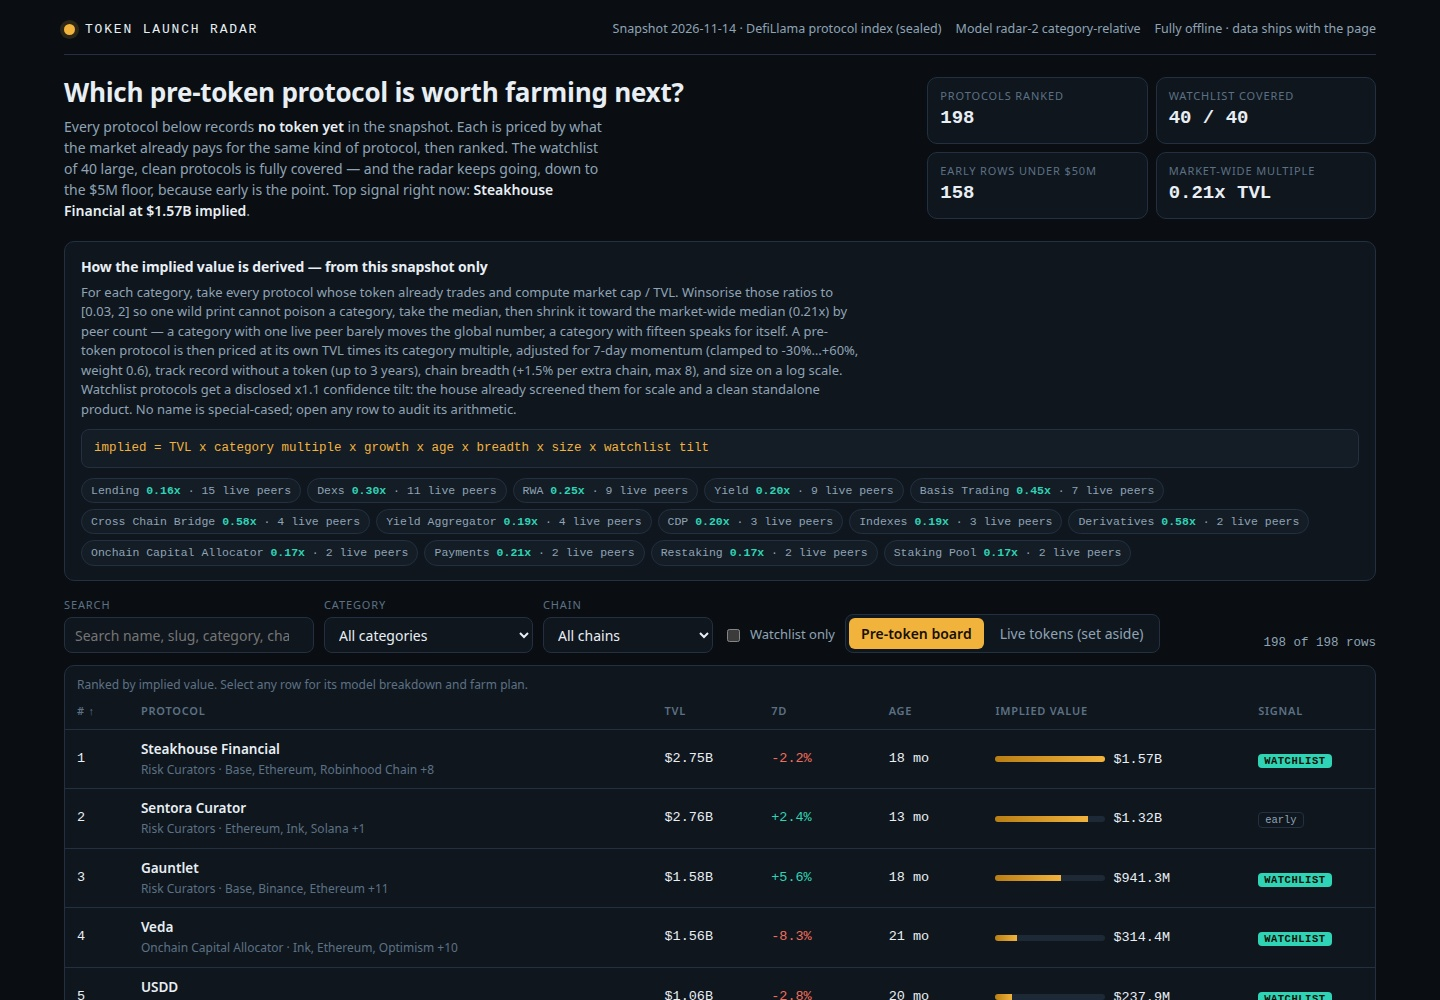
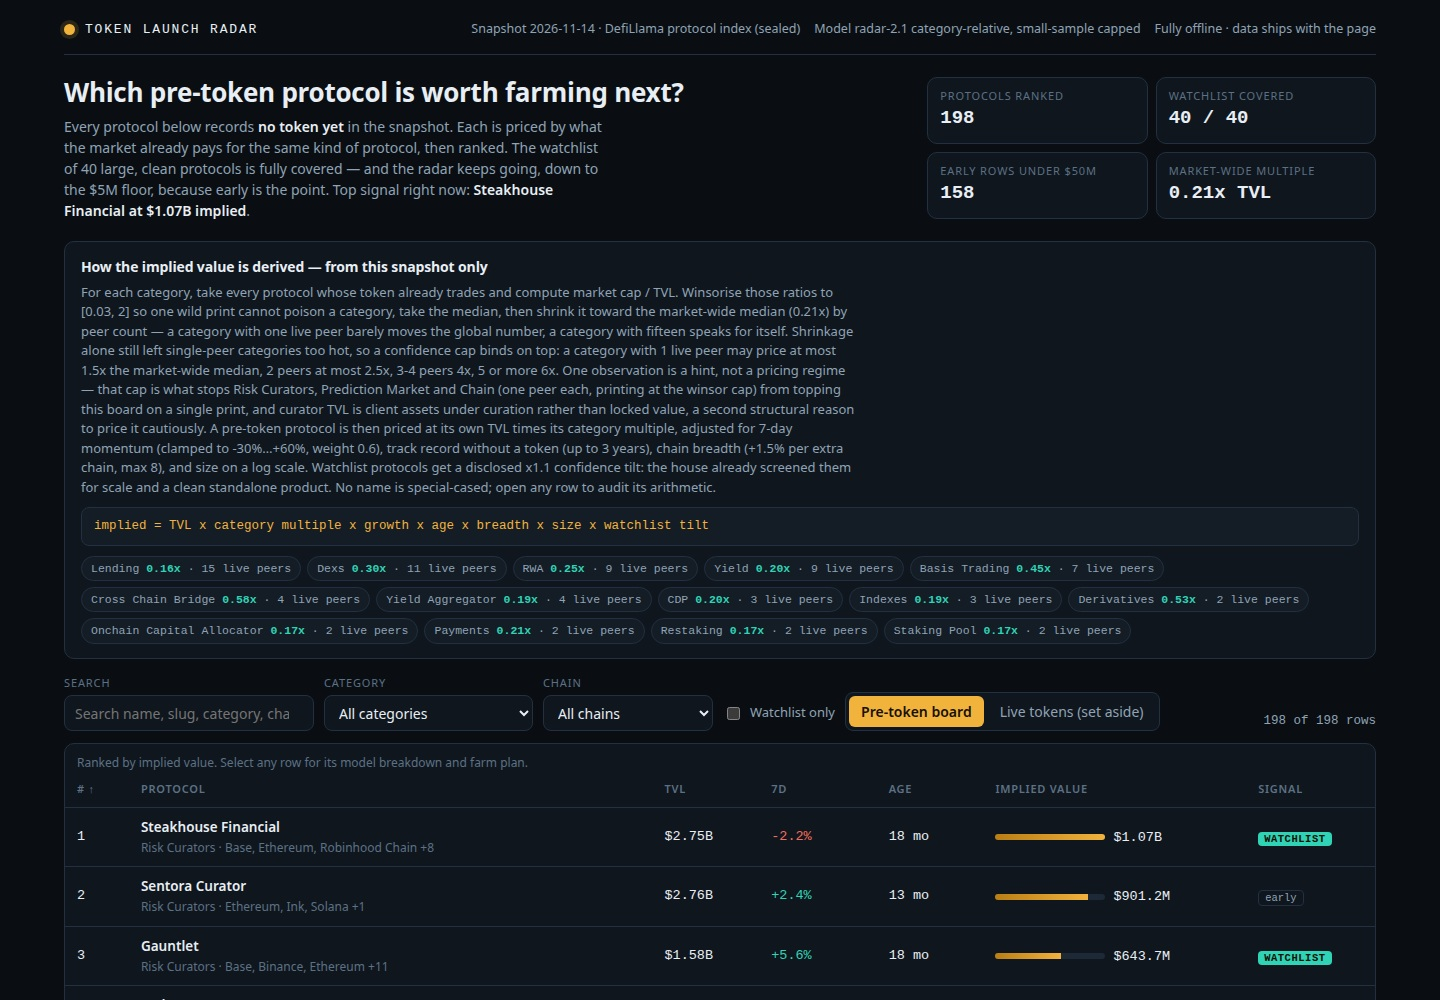
Small-sample confidence caps: category multiples capped by peer count (1 peer 1.5x global, 2 peers 2.5x, 3-4 peers 4x, 5+ 6x); curators, prediction market, chain and derivatives trimmed; dashboard and screenshots updated

diff --git a/lib/model.ts b/lib/model.ts
@@ -22,9 +22,29 @@
 // contains extreme prints (a prediction market at 400x TVL, a token locker at 19x) that would
 // otherwise poison a whole category. A category median is then shrunk toward the global median
 // with weight n / (n + SHRINK_K), SHRINK_K = 6: a category with fifteen live peers mostly speaks
-// for itself, while a category with a single peer (Risk Curators, whose one live peer prints near
-// the 2.0 cap) is pulled most of the way back to the market-wide 0.22x — one observation is a
-// hint, not a pricing regime. Categories with no live peer at all fall back to the global median.
+// for itself, while a category with a single peer is pulled most of the way back to the
+// market-wide 0.21x. Categories with no live peer at all fall back to the global median.
+//
+// Shrinkage alone was not enough for thin categories (found in review of the first board):
+// Risk Curators has exactly one live peer, printing at the 2.0 winsor cap, and even after
+// shrinkage its multiple stayed at 0.47x — more than double the market-wide figure on the
+// strength of a single observation — which put three curators on top of the board. So a second,
+// harder guard applies after shrinkage: a confidence cap tied to the peer count, expressed as a
+// multiple of the global median G. A category with 1 peer may not exceed 1.5 x G, with 2 peers
+// 2.5 x G, with 3-4 peers 4 x G, and with 5 or more peers 6 x G (at which point the winsor cap
+// is the binding limit anyway). The logic is sampling logic, not taste: the standard error of a
+// median falls with n, so the burden of proof a category must meet to price far above the whole
+// market rises with its evidence. The same rule, applied blind to every category, also trims
+// Derivatives (2 peers, raw median 1.69x) and the other single-peer categories whose only peer
+// prints at the cap (Chain, Prediction Market); thin categories whose peers print low
+// (Restaking, Staking Pool, Liquidity Manager) sit under their caps and are untouched.
+//
+// Curator and allocator categories (Risk Curators, Onchain Capital Allocator) deserve the
+// conservative treatment for a structural reason as well: their TVL is client assets under
+// curation — money that belongs to depositors and can leave with them — not value the protocol
+// itself has locked in, so a market-cap/TVL ratio observed on a tokenised peer overstates what
+// the same TVL would support for a curator's own token. That is stated here as the reason the
+// generic small-sample cap is the right tool for them, not as an extra hand-set discount.
 //
 // Who is ranked: every protocol that records no token (mcap, gecko id and symbol all null) and is
 // a standalone product that could plausibly launch one. Following the snapshot's own watchlist
@@ -63,6 +83,10 @@ export interface ModelConstants {
   ratio_floor: number;
   ratio_cap: number;
   shrink_k: number;
+  cap_factor_1_peer: number;
+  cap_factor_2_peers: number;
+  cap_factor_3_4_peers: number;
+  cap_factor_5plus_peers: number;
   growth_floor_pct: number;
   growth_cap_pct: number;
   growth_weight: number;
@@ -82,6 +106,10 @@ export const MODEL: ModelConstants = {
   ratio_floor: 0.03,
   ratio_cap: 2.0,
   shrink_k: 6,
+  cap_factor_1_peer: 1.5,
+  cap_factor_2_peers: 2.5,
+  cap_factor_3_4_peers: 4,
+  cap_factor_5plus_peers: 6,
   growth_floor_pct: -30,
   growth_cap_pct: 60,
   growth_weight: 0.6,
@@ -97,7 +125,7 @@ export const MODEL: ModelConstants = {
   watchlist_mult: 1.1,
 };
 
-export const MODEL_VERSION = 'radar-2 category-relative';
+export const MODEL_VERSION = 'radar-2.1 category-relative, small-sample capped';
 
 /** How many live-token protocols the dashboard's Live view carries, by market cap. */
 export const LIVE_ROWS = 30;
@@ -122,6 +150,8 @@ export interface BoardRow {
   model: {
     category_multiple: number;
     category_peers: number;
+    category_cap: number;
+    category_capped: boolean;
     growth_multiplier: number;
     age_multiplier: number;
     breadth_multiplier: number;
@@ -151,6 +181,9 @@ export interface CategoryStat {
   category: string;
   peers: number;
   raw_median: number;
+  shrunk_multiple: number;
+  cap: number;
+  capped: boolean;
   multiple: number;
 }
 
@@ -220,9 +253,18 @@ function median(sorted: number[]): number {
 
 const clamp = (v: number, lo: number, hi: number): number => Math.min(hi, Math.max(lo, v));
 
+/** The confidence cap for a category with `peers` live peers, as a factor of the global median. */
+export function capFactorFor(peers: number, model: ModelConstants = MODEL): number {
+  if (peers <= 1) return model.cap_factor_1_peer;
+  if (peers === 2) return model.cap_factor_2_peers;
+  if (peers <= 4) return model.cap_factor_3_4_peers;
+  return model.cap_factor_5plus_peers;
+}
+
 /**
  * The peer evidence: for every category, the winsorised median market-cap/TVL of its live-token
- * protocols, shrunk toward the global median by peer count. Deterministic in the snapshot alone.
+ * protocols, shrunk toward the global median by peer count, then held under the small-sample
+ * confidence cap for its peer count. Deterministic in the snapshot alone.
  */
 export function categoryMultiples(snapshot: Snapshot, model: ModelConstants = MODEL): { global: number; byCategory: Map<string, CategoryStat> } {
   const winsor = (r: number): number => clamp(r, model.ratio_floor, model.ratio_cap);
@@ -240,7 +282,17 @@ export function categoryMultiples(snapshot: Snapshot, model: ModelConstants = MO
     ratios.sort((a, b) => a - b);
     const raw = median(ratios);
     const shrunk = (ratios.length * raw + model.shrink_k * globalMedian) / (ratios.length + model.shrink_k);
-    byCategory.set(category, { category, peers: ratios.length, raw_median: round4(raw), multiple: round4(shrunk) });
+    const cap = capFactorFor(ratios.length, model) * globalMedian;
+    const capped = shrunk > cap;
+    byCategory.set(category, {
+      category,
+      peers: ratios.length,
+      raw_median: round4(raw),
+      shrunk_multiple: round4(shrunk),
+      cap: round4(cap),
+      capped,
+      multiple: round4(Math.min(shrunk, cap)),
+    });
   }
   return { global: round4(globalMedian), byCategory };
 }
@@ -256,6 +308,8 @@ export function scoreProtocol(
   const stat = multiples.byCategory.get(p.category ?? 'Other');
   const categoryMultiple = stat ? stat.multiple : multiples.global;
   const peers = stat ? stat.peers : 0;
+  const categoryCap = stat ? stat.cap : round4(capFactorFor(0, model) * multiples.global);
+  const categoryCapped = stat ? stat.capped : false;
 
   const growthPct = clamp(p.change_7d ?? 0, model.growth_floor_pct, model.growth_cap_pct);
   const growthMult = 1 + (growthPct / 100) * model.growth_weight;
@@ -281,6 +335,8 @@ export function scoreProtocol(
     parts: {
       category_multiple: categoryMultiple,
       category_peers: peers,
+      category_cap: categoryCap,
+      category_capped: categoryCapped,
       growth_multiplier: round4(growthMult),
       age_multiplier: round4(ageMult),
       breadth_multiplier: round4(breadthMult),

diff --git a/dashboard/app.js b/dashboard/app.js
@@ -102,7 +102,7 @@
     });
     return el('section', { class: 'method' },
       el('h2', { text: 'How the implied value is derived — from this snapshot only' }),
-      el('p', { text: 'For each category, take every protocol whose token already trades and compute market cap / TVL. Winsorise those ratios to [' + m.ratio_floor + ', ' + m.ratio_cap + '] so one wild print cannot poison a category, take the median, then shrink it toward the market-wide median (' + D.global_multiple.toFixed(2) + 'x) by peer count — a category with one live peer barely moves the global number, a category with fifteen speaks for itself. A pre-token protocol is then priced at its own TVL times its category multiple, adjusted for 7-day momentum (clamped to ' + m.growth_floor_pct + '%…+' + m.growth_cap_pct + '%, weight ' + m.growth_weight + '), track record without a token (up to 3 years), chain breadth (+' + (m.breadth_per_chain * 100) + '% per extra chain, max ' + m.breadth_max_chains + '), and size on a log scale. Watchlist protocols get a disclosed x' + m.watchlist_mult + ' confidence tilt: the house already screened them for scale and a clean standalone product. No name is special-cased; open any row to audit its arithmetic.' }),
+      el('p', { text: 'For each category, take every protocol whose token already trades and compute market cap / TVL. Winsorise those ratios to [' + m.ratio_floor + ', ' + m.ratio_cap + '] so one wild print cannot poison a category, take the median, then shrink it toward the market-wide median (' + D.global_multiple.toFixed(2) + 'x) by peer count — a category with one live peer barely moves the global number, a category with fifteen speaks for itself. Shrinkage alone still left single-peer categories too hot, so a confidence cap binds on top: a category with 1 live peer may price at most 1.5x the market-wide median, 2 peers at most 2.5x, 3-4 peers 4x, 5 or more 6x. One observation is a hint, not a pricing regime — that cap is what stops Risk Curators, Prediction Market and Chain (one peer each, printing at the winsor cap) from topping this board on a single print, and curator TVL is client assets under curation rather than locked value, a second structural reason to price it cautiously. A pre-token protocol is then priced at its own TVL times its category multiple, adjusted for 7-day momentum (clamped to ' + m.growth_floor_pct + '%…+' + m.growth_cap_pct + '%, weight ' + m.growth_weight + '), track record without a token (up to 3 years), chain breadth (+' + (m.breadth_per_chain * 100) + '% per extra chain, max ' + m.breadth_max_chains + '), and size on a log scale. Watchlist protocols get a disclosed x' + m.watchlist_mult + ' confidence tilt: the house already screened them for scale and a clean standalone product. No name is special-cased; open any row to audit its arithmetic.' }),
       el('div', { class: 'formula', text: 'implied = TVL x category multiple x growth x age x breadth x size' + (true ? ' x watchlist tilt' : '') }),
       el('div', { class: 'cats' }, chips));
   }
@@ -207,6 +207,7 @@
         el('div', { class: 'kv' },
           kv('TVL (snapshot)', fmt$(r.tvl_usd)),
           kv('Category multiple', m.category_multiple.toFixed(2) + 'x  (' + m.category_peers + ' live peers in ' + (r.category || 'Other') + ')'),
+          kv('Small-sample cap', m.category_capped ? 'BINDING at ' + m.category_cap.toFixed(2) + 'x — only ' + m.category_peers + ' live peer(s), so this category may not price far above the market-wide median' : 'not binding (cap ' + m.category_cap.toFixed(2) + 'x for ' + m.category_peers + ' peers)'),
           kv('7-day TVL change', fmtPct(r.change_7d)),
           kv('Growth multiplier', 'x' + m.growth_multiplier.toFixed(3)),
           kv('Age without a token', fmtAge(r.age_days) + '  →  x' + m.age_multiplier.toFixed(3)),

diff --git a/README.md b/README.md
@@ -13,7 +13,12 @@ No outside data and no hand-picked names: the snapshot prices its own protocols.
 1. For every category, collect the live-token protocols and compute `market_cap / TVL`.
 2. Winsorise those ratios to [0.03, 2.0] (the raw file contains a 400x prediction-market print
    that would otherwise poison its category), take the median, and shrink it toward the
-   market-wide median (0.21x) with weight `n / (n + 6)` by peer count.
+   market-wide median (0.21x) with weight `n / (n + 6)` by peer count. On top of shrinkage, a
+   small-sample confidence cap binds thin categories: at most 1.5x the global median with
+   1 live peer, 2.5x with 2 peers, 4x with 3–4 peers, 6x with 5+. One observation is a hint,
+   not a pricing regime — without the cap, the single-peer Risk Curators category (whose one
+   peer prints at the winsor cap) put three curators on top of the board; curator TVL is also
+   client assets under curation, not locked value, which is a structural reason for caution.
 3. Price each pre-token protocol as `TVL x category multiple`, adjusted by clamped 7-day TVL
    momentum, track record without a token (age, up to 3 years), chain breadth, log-scale size,
    and a disclosed x1.10 confidence tilt for watchlist protocols.
